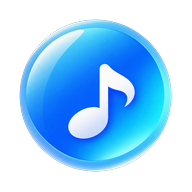
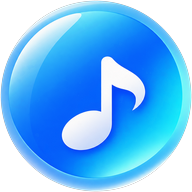
deploy: 同步壳 PWA 源码（2026-11-18 14:26）

diff --git a/sw.js b/sw.js
@@ -1,6 +1,6 @@
 // 最小 Service Worker：仅为满足 Chrome PWA 安装条件（需注册 + fetch handler）。
 // 壳页自身离线兜底；Tabliss iframe 的请求照常走网络，不缓存。
-const SHELL = 'tabliss-shell-v9';   // v9：图标放大至画布80%（72%→80%，任务栏观感增大）
+const SHELL = 'tabliss-shell-v10';   // v10：图标100%撑满画布（用户逐档放大最终选定）
 const SHELL_FILES = ['index.html', 'pwa.json', 'appicon-192.png', 'appicon-512.png'];
 
 self.addEventListener('install', (e) => {
